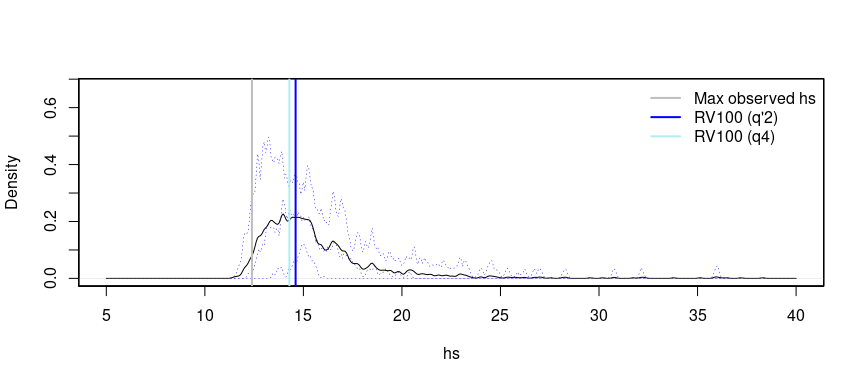
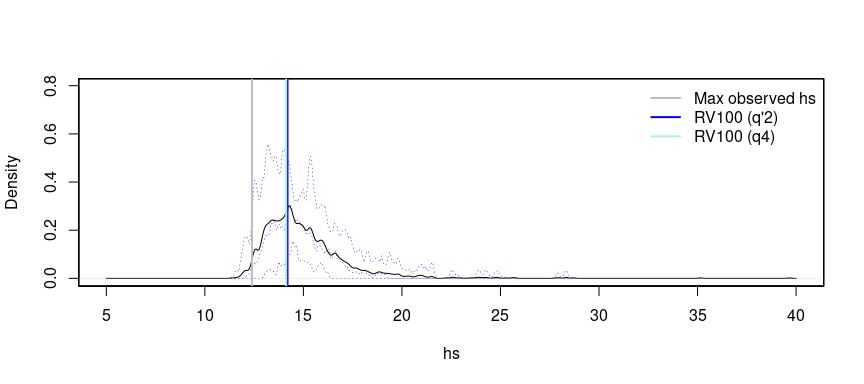
update REDAME

diff --git a/README.md b/README.md
@@ -36,9 +36,6 @@ df_ekofisk_red <- df_ekofisk[, c("time", "hs", "wind_speed_10m", "tp", "tm2", "P
 # full dataset
 ds <- df_ekofisk_red  # 48 yrs
 
-# add u10
-ds[['u10']] <- ds[['wind_speed_10m']]
-
 # number of years covered by original dataset
 nr_of_years <- 48
 
@@ -61,7 +58,7 @@ system.time(df_pick <- peak_picking(ds, peak_picking_thr_model_fml,
     ## [1] "find peaks for combined storms"
 
     ##    user  system elapsed 
-    ## 277.938  27.842 305.837
+    ## 241.506  25.314 266.857
 
 ``` r
 # additional variables were added, i.e. exc, thr, and storm_idx
@@ -101,7 +98,7 @@ system.time(res_bstrp <- run_bootstrap_storms_pots(df = df_pick$storms,
 ```
 
     ##    user  system elapsed 
-    ##   7.869   0.000   7.870
+    ##   6.338   0.026   6.365
 
 ``` r
 bstrp_storms_lst <- res_bstrp$boot_samples
@@ -147,7 +144,7 @@ node_str_lst = c('Pdir')
 
 # pick threshold range list based on some reasonable thresholds
 # cross-validation results could be used instead
-thr_range <- list('hs'=c(.8,.9), 'tm2'=c(.8,.9), 'u10'=c(.8,.9))
+thr_range <- list('hs'=c(.8,.9), 'tm2'=c(.8,.9))
 
 # define models
 fml_pp <- ~ te(doy, Pdir, bs = c('cc', 'cc'), k = c(6,8))
@@ -155,7 +152,6 @@ fml_gpd <- list(exc ~ te(doy, Pdir, k=c(6,8), bs=c("cc","cc")),
                 ~ te(doy, Pdir, k=c(6,8), bs=c("cc","cc")))
 fml_ald <- hs ~ te(doy, Pdir, bs=c("cc","cc"), k=c(6,8))
 fml_ald_tm2 <- tm2 ~ te(doy, Pdir, bs=c("cc","cc"), k=c(6,8))
-fml_ald_u10 <- u10 ~ te(doy, Pdir, bs=c("cc","cc"), k=c(6,8))
 
 model_fml_thr <- NULL
 model_fml_gpd <- NULL
@@ -166,16 +162,13 @@ model_fml_gpd[['hs']] <- fml_gpd
 model_fml_occ[['tm2']] <- fml_pp
 model_fml_thr[['tm2']] <- fml_ald_tm2
 model_fml_gpd[['tm2']] <- fml_gpd
-model_fml_occ[['u10']] <- fml_pp
-model_fml_thr[['u10']] <- fml_ald_u10
-model_fml_gpd[['u10']] <- fml_gpd
 
 syst <- system.time(
 models_margs <- fit_margs_bstrp(bstrp_pots_lst,
                                 model_fml_thr, model_fml_occ, model_fml_gpd,
                                 extr_thr=thr_range, nr_of_years,
                                 thr_str = "thr",
-                                list_var = c("hs", "tm2", "u10"),
+                                list_var = c("hs", "tm2"),
                                 nbstrp = nbstrp,
                                 nquad = 225,
                                 knots = knots,
@@ -193,7 +186,7 @@ nmc <- 100  # number of mc samples for each bootstrap sample
 
 syst <- system.time(
 preds_margs_lst <- predict_margs(models_margs, nr_of_years, RP=RP,
-                                 nmc = nmc, var_lst = c("hs", "tm2", "u10"),
+                                 nmc = nmc, var_lst = c("hs", "tm2"),
                                  nbstrp = nbstrp,
                                  covarstr_lst = c("Pdir","doy"),
                                  grid_interval = list("Pdir"=1, "doy"=1),
@@ -212,7 +205,7 @@ dhs <- diagnose_margs_preds_density(preds_margs_lst, "hs", bw=.1, xlim=c(5,40))
 
     ## [1] "summary maxes:"
     ##    Min. 1st Qu.  Median    Mean 3rd Qu.    Max. 
-    ##   11.44   13.72   14.90   15.68   16.56   63.90
+    ##   11.40   13.63   14.58   15.04   15.84   69.22
 
 ``` r
 abline(v = max(df_pick$pots$hs), col = "gray", lwd = 2)
@@ -291,7 +284,7 @@ diagnose_maxds_fitted(models_maxds[[2]], "hs", "tm2", nsim)
 ``` r
 # predict on Laplace space
 preds_maxds_LP <- predict_from_HT2004_models(models_margs, models_maxds,
-                                             c("tm2", "hs", "u10"), nbstrp,
+                                             c("tm2", "hs"), nbstrp,
                                              preds=preds_margs_lst)
 
 # convert to real space
@@ -299,25 +292,25 @@ preds_maxds <- convert_HT2004_preds_to_original_space(
                   models_maxds,
                   preds_maxds_LP,
                   preds_margs_lst,
-                  var_lst = c("tm2", "hs", "u10"))
+                  var_lst = c("tm2", "hs"))
 
 # reorganize to consolidate
 preds_maxds_LP_new <- reorganize_HT2004_preds(
                         models_maxds,
                         preds_maxds_LP,
                         preds_margs_lst,
-                        var_lst = c("tm2", "hs", "u10"))
+                        var_lst = c("tm2", "hs"))
 
 # retrieve valid predicted values according to chosen space
 valids <- retrieve_valid_HT_samples(preds_maxds,
                                     preds_maxds_LP,
                                     preds_margs_lst,
-                                    "hs", c("tm2", "u10"),
+                                    "hs", c("tm2"),
                                     models_maxds = models_maxds)
 
 # Filter Laplace to valid HT2004 space only
 out <- filter_preds_maxds(preds_maxds_LP_new,
-                          var_lst = c("u10", "hs", "tm2"),
+                          var_lst = c("hs", "tm2"),
                           preds2 = preds_maxds)
 preds_LP_filtered  <- out$preds_filtered
 preds_orig_filtered <- out$preds2_filtered
@@ -332,16 +325,15 @@ library(ggplot2)
 library(metR)
 library(MASS)
 
-var_lst <- c("hs", "tm2", "u10")
+var_lst <- c("hs", "tm2")
 
 df_preds_hs   <- prepare_preds_df(preds_orig_filtered, var_lst, xi_select = "hs")
 df_preds_tm2  <- prepare_preds_df(preds_orig_filtered, var_lst, xi_select = "tm2")
-df_preds_u10  <- prepare_preds_df(preds_orig_filtered, var_lst, xi_select = "u10")
-df_preds_all  <- prepare_preds_df(preds_orig_filtered, var_lst, xi_select = c("hs", "tm2", "u10"))
+df_preds_all  <- prepare_preds_df(preds_orig_filtered, var_lst, xi_select = c("hs", "tm2"))
 
 # Compute all shared parameters in one call
 params <- prepare_shared_plot_params(
-  df_list = list(df_preds_hs, df_preds_tm2, df_preds_u10, df_preds_all),
+  df_list = list(df_preds_hs, df_preds_tm2, df_preds_all),
   xvar = "tm2", yvar = "hs",
   df_obs = df_pick$pots
 )
@@ -359,21 +351,15 @@ p2 <- plot_preds_2d_gg_shared(df_preds_tm2,  xvar = "tm2", yvar = "hs",
                                clim = params$clim, show_legend = FALSE) +
   ggtitle("xi = tm2")
 
-p3 <- plot_preds_2d_gg_shared(df_preds_u10,  xvar = "tm2", yvar = "hs",
-                               df_obs = df_pick$pots,
-                               xlim = c(2,14), ylim = c(0,20), density_levels = c(0.05),
-                               clim = params$clim, show_legend = FALSE) +
-  ggtitle("xi = u10")
-
-p4 <- plot_preds_2d_gg_shared(df_preds_all,  xvar = "tm2", yvar = "hs",
+p3 <- plot_preds_2d_gg_shared(df_preds_all,  xvar = "tm2", yvar = "hs",
                                df_obs = df_pick$pots,
                                xlim = c(2,14), ylim = c(0,20), density_levels = c(0.05),
                                clim = params$clim, show_legend = TRUE) +
-  ggtitle("xi = hs + tm2 + u10")
+  ggtitle("xi = hs + tm2")
 
 # Combine and save
 print(
-  (p1 + p2 + p3 + p4) +
+  (p1 + p2 + p3) +
     plot_layout(ncol = 4) +
     plot_annotation(tag_levels = "a", tag_suffix = ")") &
     theme(plot.tag.position = c(0.05, 0.95),
@@ -383,23 +369,12 @@ print(
 
 ![](README_files/figure-gfm/unnamed-chunk-15-1.png)<!-- -->
 
-# Plot a 3D field
-
-``` r
-## output not shown here
-# requires plotly
-
-#plot_ly_3d(df_preds, xvar = "hs", yvar = "u10", zvar = "tm2",
-#           xlim = c(0, 20), ylim = c(0, 40), zlim = c(0, 20),
-#           df_obs = df_pick$pots)
-```
-
 ## Simulate storms (matching) given simulated storm peaks
 
 ``` r
 df_hist_pots <- df_pick$pots
 df_hist_storms <- df_pick$storms
-df_joint_pots <- df_preds_all
+df_joint_pots <- df_preds_hs
 
 # add steepness
 df_hist_pots[['s_tm2']] <- compute_steepness(df_hist_pots$hs, df_hist_pots$tm2)
@@ -444,14 +419,14 @@ print(syst)
 vis_sim_storms(res, storm_idx=10, xlim=c(0,16), ylim=c(0,20))
 ```
 
-![](README_files/figure-gfm/unnamed-chunk-18-1.png)<!-- -->
+![](README_files/figure-gfm/unnamed-chunk-17-1.png)<!-- -->
 
 ``` r
 # plot simulated peaks and storms
 show_sim_pop(res, xlim=c(2,19), ylim=c(0,25))
 ```
 
-![](README_files/figure-gfm/unnamed-chunk-19-1.png)<!-- -->
+![](README_files/figure-gfm/unnamed-chunk-18-1.png)<!-- -->
 
 ## Compute Hmax given RP peak featuring storms
 
@@ -505,7 +480,7 @@ legend("topright", legend = c("100yr RL Rayleigh",
        lty = c(1, 1, 2, 2), lwd = c(1, 1, 1, 1, 2))
 ```
 
-![](README_files/figure-gfm/unnamed-chunk-21-1.png)<!-- -->
+![](README_files/figure-gfm/unnamed-chunk-20-1.png)<!-- -->
 
 ## Only consider subregions on covariate parameter space (e.g. sector, season, …)
 
@@ -530,7 +505,7 @@ rect(xleft = x_min_Pdir_low, xright = x_max_Pdir_low,
      col = adjustcolor("blue", alpha.f = 0.3), border = NA)
 ```
 
-![](README_files/figure-gfm/unnamed-chunk-22-1.png)<!-- -->
+![](README_files/figure-gfm/unnamed-chunk-21-1.png)<!-- -->
 
 ``` r
 # choose lowest and highest regions and create subset
@@ -570,9 +545,9 @@ cat(sprintf("Low sector: %.2f\nHigh sector: %.2f\nOmni: %.2f\n",
             RP_f_hmax_low, RP_f_hmax_high, RP_f_hmax))
 ```
 
-    ## Low sector: 18.40
-    ## High sector: 21.28
-    ## Omni: 24.88
+    ## Low sector: 14.27
+    ## High sector: 23.23
+    ## Omni: 23.50
 
 ## Apply to synthetic, univariate, non-stationary data
 
@@ -587,7 +562,7 @@ plot(density(ds_subset$y, bw=.01),
      main="", xlab="", ylab="Density")
 ```
 
-![](README_files/figure-gfm/unnamed-chunk-25-1.png)<!-- -->
+![](README_files/figure-gfm/unnamed-chunk-24-1.png)<!-- -->
 
 ## Apply envex pipeline
 
@@ -616,7 +591,7 @@ system.time(df_pick <- peak_picking(ds_subset, peak_picking_thr_model_fml,
     ## [1] "find peaks for combined storms"
 
     ##    user  system elapsed 
-    ##  20.952   0.435  21.391
+    ##  17.453   0.591  18.051
 
 ## Plot picking result
 
@@ -626,7 +601,7 @@ visualize_storm_picking(dfin = df_pick, dfinall = ds_subset,
                         sidx = 1, eidx = 4200, ylim=c(0,8))
 ```
 
-![](README_files/figure-gfm/unnamed-chunk-27-1.png)<!-- -->
+![](README_files/figure-gfm/unnamed-chunk-26-1.png)<!-- -->
 
 ## Perform cross-validation
 
@@ -659,9 +634,9 @@ cvres <- cross_validation(dfin = df_pick$pots, nr_cv = 5,
 plot_cvres(cvres, limits = c(.8, .9))
 ```
 
-    ## [1] 0.90 0.88
+    ## [1] 0.88 0.88
 
-![](README_files/figure-gfm/unnamed-chunk-29-1.png)<!-- -->
+![](README_files/figure-gfm/unnamed-chunk-28-1.png)<!-- -->
 
 ## Continue with workflow and bootstrap
 
@@ -786,7 +761,7 @@ legend("topleft",
        bty = "n")  # removes box around legend
 ```
 
-![](README_files/figure-gfm/unnamed-chunk-31-1.png)<!-- -->
+![](README_files/figure-gfm/unnamed-chunk-30-1.png)<!-- -->
 
 ## The numbers for comparison rounded to 2 desimals
 
@@ -796,9 +771,9 @@ cat(sprintf("Truth: %.2f\nq'2: %.2f\nq3: %.2f\nq4: %.2f\n",
 ```
 
     ## Truth: 8.43
-    ## q'2: 8.38
-    ## q3: 8.34
-    ## q4: 8.34
+    ## q'2: 8.44
+    ## q3: 8.51
+    ## q4: 8.37
 
 ## Notes
 
